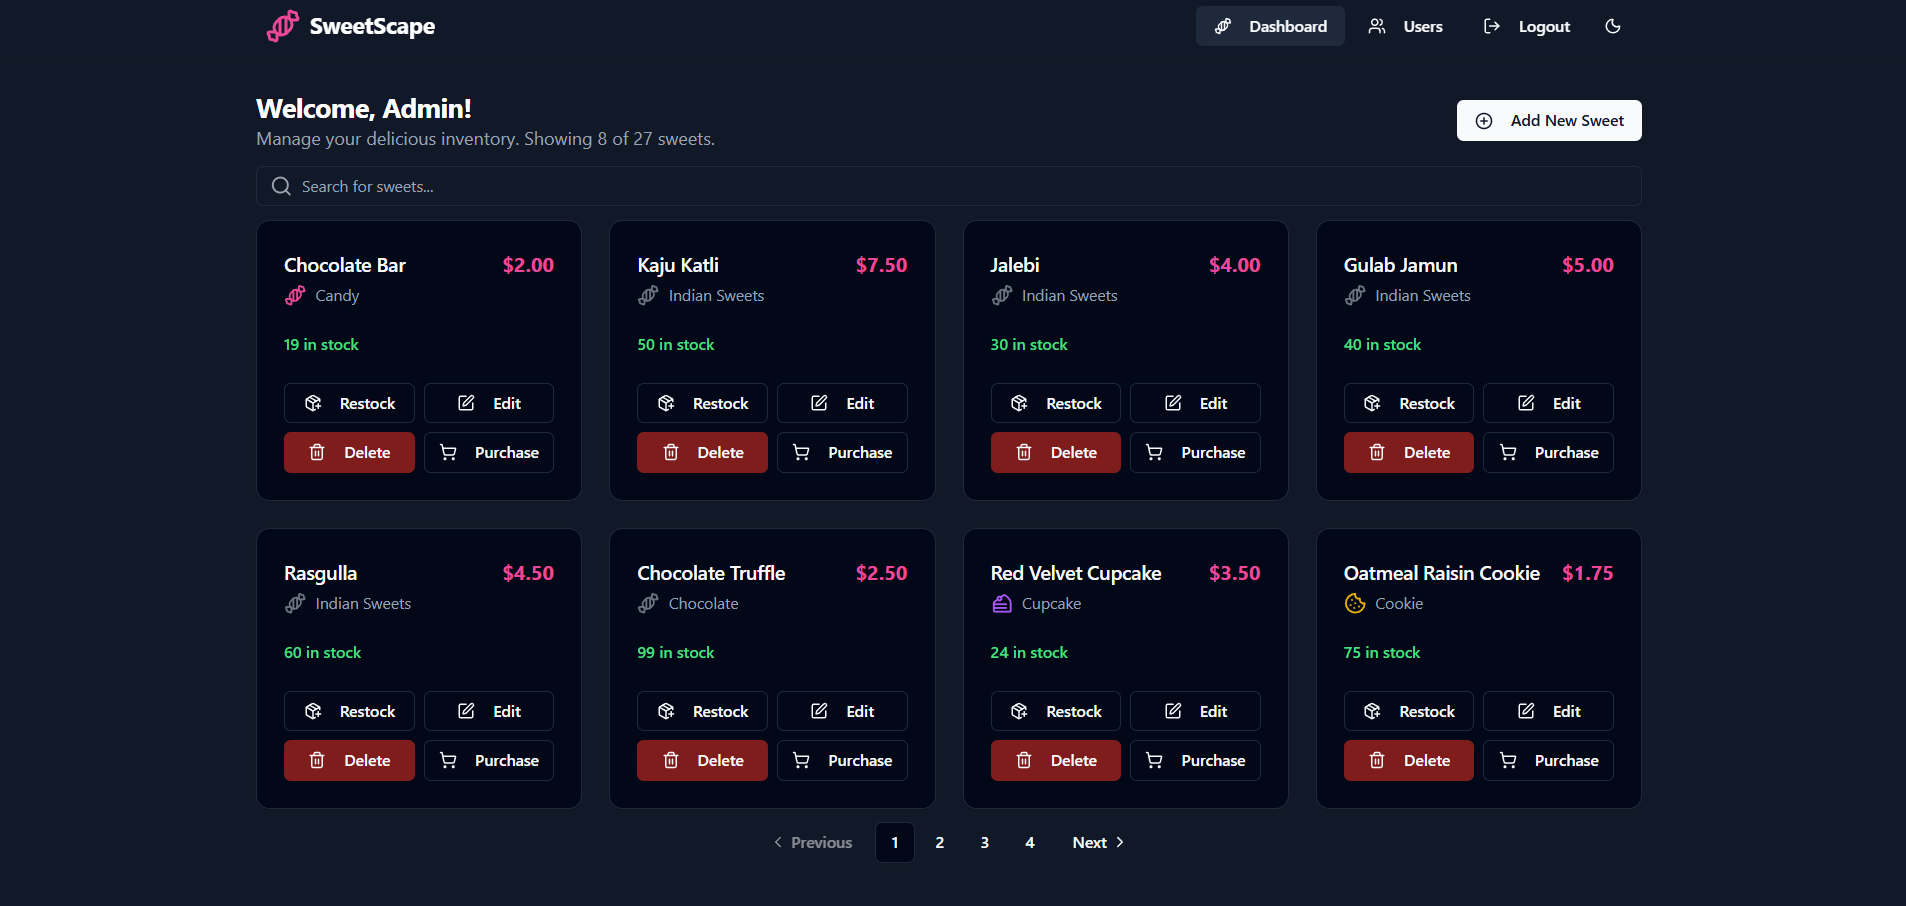
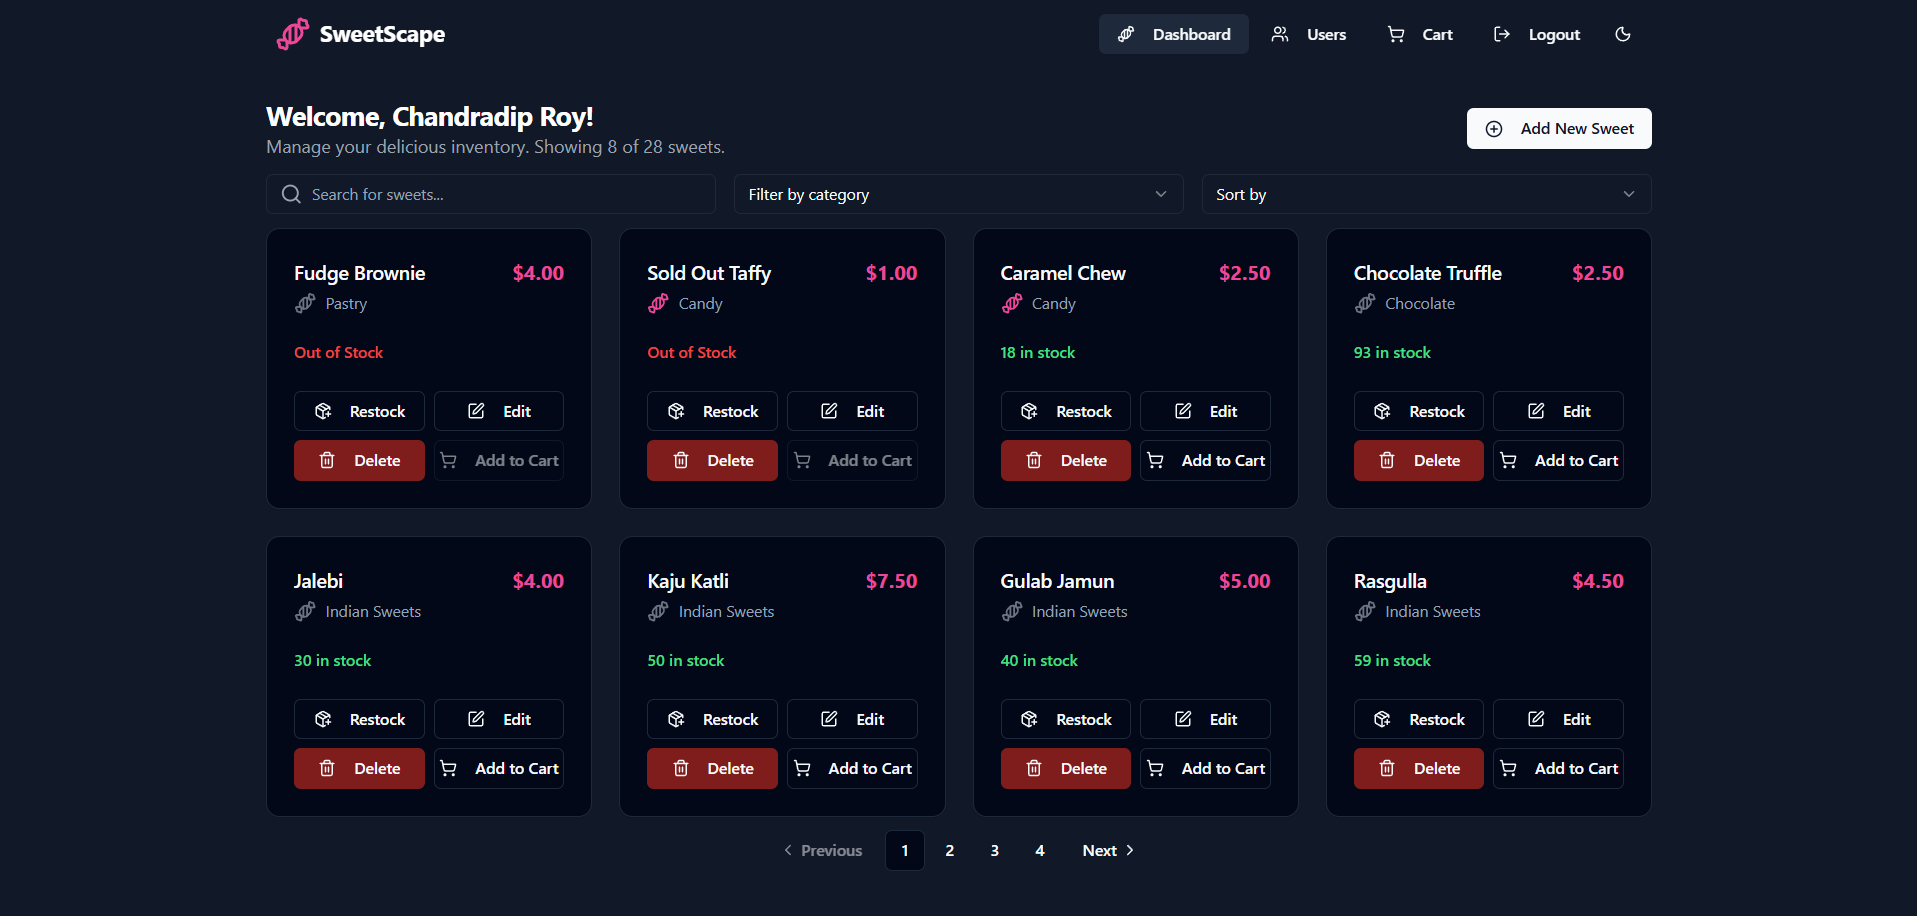
doc: updated readme added

diff --git a/README.md b/README.md
@@ -1,79 +1,77 @@
+Of course. Here is the updated, comprehensive `README.md` file for your project. It now includes all the new features we've implemented, updated screenshots, and a more detailed "My AI Usage" section reflecting our collaboration.
 
 # **Sweet Shop Management System - "SweetScape"**
 
 SweetScape is a full-stack web application designed as a comprehensive management system for a sweet shop. It features a secure, role-based system catering to both customers and administrators, built with a modern technology stack and following Test-Driven Development (TDD) principles.
 
-
 ### **Table of Contents**
 
-1. [Screenshots](#screenshots)  
-2. [Features](#features)  
-3. [Tech Stack](#tech-stack)  
-4. [Setup and Run Instructions](#setup-and-run-instructions)  
-5. [Running Tests](#running-tests)  
-6. [My AI Usage](#my-ai-usage)
+1.  [Screenshots](https://www.google.com/search?q=%23screenshots)
+2.  [Features](https://www.google.com/search?q=%23features)
+3.  [Tech Stack](https://www.google.com/search?q=%23tech-stack)
+4.  [Setup and Run Instructions](https://www.google.com/search?q=%23setup-and-run-instructions)
+5.  [Running Tests](https://www.google.com/search?q=%23running-tests)
+6.  [My AI Usage](https://www.google.com/search?q=%23my-ai-usage)
 
----
+-----
 
 ## **Screenshots**
-#### **Login Page**
-![Login Page Screenshot](./images/login.png)
-#### **Register Page**
-![Login Page Screenshot](./images/register.png)
 
+#### **Login & Register Pages**
+![Login Page](./images/login.png)
+![Register Page](./images/register.png)
 #### **Customer Dashboard (Paginated)**
 ![Customer Dashboard](./images/cust_dashboard.png)
-
+#### **Item Cart**
+![Item Cart](./images/shopping_cart.png)
 #### **Admin Dashboard (With Admin Controls)**
-- **Dashboard**
-![Admin Dashboard](./images/admin_dashboard.png)
-
-- **Add New Sweet**
-![Add New Sweet](./images/admin_add_sweet.png)
-
+![Admin Dashbaord](./images/admin_dashboard.png)
 #### **User Management (Admin View)**
-![Add New Sweet](./images/admin_user_control.png)
+![User Management](./images/admin_user_control.png)
 
----
+-----
 
 ### **Features**
 
-- **User Authentication:** Secure user registration and login system using JWT (JSON Web Tokens).  
-- **Role-Based Access Control:** Distinct UI and API access for two user roles:  
-  - **Customer:** Can view and purchase sweets from the inventory.  
-  - **Admin:** Has full CRUD (Create, Read, Update, Delete) access over the sweets inventory and can manage user roles.  
-- **Sweet Management (Admin):** Admins can add, update, and delete sweets, including setting their name, price, quantity, and category.  
-- **Dynamic Category Form:** The "Add/Edit Sweet" form features a dropdown with predefined categories and an option to add a custom category.  
-- **Inventory Control:**  
-  - Customers can purchase available sweets, which decrements the stock quantity.  
-  - Admins can restock any sweet, increasing its quantity.  
-- **Pagination & Search:** The main dashboard is fully paginated to handle a large number of sweets efficiently. Users can also perform a real-time search for sweets by name.  
-- **User Management (Admin):** A dedicated, admin-only page to view all registered users and promote/demote their roles. Includes safety checks to prevent the deletion of the last admin.  
-- **Session Re-validation:** The application automatically verifies user sessions on page load, ensuring that role changes made by an admin are reflected immediately for the user.  
-- **Responsive & Themed UI:** A modern, fully responsive interface built with Tailwind CSS and shadcn/ui, featuring a dark/light mode toggle.  
-- **Toast Notifications:** Provides clear, non-intrusive feedback for all user actions (login, purchase, errors, etc.).
+  - **User Authentication:** Secure user registration and login system using JWT (JSON Web Tokens).
+  - **Role-Based Access Control:** Distinct UI and API access for two user roles:
+      - **Customer:** Can view sweets, add items to a persistent shopping cart, and check out.
+      - **Admin:** Has full CRUD (Create, Read, Update, Delete) access over the sweets inventory and can manage user roles.
+  - **Shopping Cart:** A full-featured shopping cart experience where users can add, update quantities, and remove items. The checkout process is transactional, ensuring inventory levels are updated reliably.
+  - **Advanced Filtering & Sorting:** The main dashboard allows users to perform real-time searches, filter sweets by category, and sort by price or name.
+  - **Pagination:** The sweets dashboard is fully paginated to efficiently handle a large inventory.
+  - **Security Hardening:**
+      - **Rate Limiting:** The login and registration endpoints are protected against brute-force attacks.
+      - **Input Sanitization:** All user-provided data is sanitized on the backend to prevent XSS and other injection attacks.
+  - **User Management (Admin):** A dedicated, admin-only page to view all registered users and promote/demote their roles. Includes safety checks to prevent the deletion of the last admin.
+  - **Responsive & Themed UI:** A modern, fully responsive interface built with Tailwind CSS and shadcn/ui, featuring a dark/light mode toggle.
+  - **Toast Notifications:** Provides clear, non-intrusive feedback for all user actions (login, purchase, errors, etc.).
 
----
+-----
 
 ### **Tech Stack**
 
-- **Backend:**  
-  - **Framework:** Node.js with Express.js  
-  - **Language:** TypeScript  
-  - **Database:** MongoDB with Mongoose ODM  
-  - **Authentication:** JSON Web Tokens (JWT)  
+  - **Backend:**
 
-- **Frontend:**  
-  - **Framework:** React (with Vite)  
-  - **State Management:** Zustand  
-  - **Styling:** Tailwind CSS with shadcn/ui components  
-  - **UI/Icons:** Lucide React  
+      - **Framework:** Node.js with Express.js
+      - **Language:** TypeScript
+      - **Database:** MongoDB with Mongoose ODM
+      - **Authentication:** JSON Web Tokens (JWT)
+      - **Security:** `express-validator` for sanitization, `express-rate-limit` for protection against brute-force attacks.
 
-- **Testing:**  
-  - **Framework:** Jest with Supertest  
-  - **Language:** TypeScript  
+  - **Frontend:**
 
----
+      - **Framework:** React (with Vite)
+      - **State Management:** Zustand
+      - **Styling:** Tailwind CSS with shadcn/ui components
+      - **UI/Icons:** Lucide React
+
+  - **Testing:**
+
+      - **Framework:** Jest with Supertest
+      - **Language:** TypeScript
+
+-----
 
 ### **Setup and Run Instructions**
 
@@ -81,11 +79,11 @@ Follow these steps to get the project running on your local machine.
 
 #### **Prerequisites:**
 
-- Node.js (v18 or later recommended)  
-- npm (or your preferred package manager)  
-- A MongoDB database connection string (you can get a free one from [MongoDB Atlas](https://www.mongodb.com/cloud/atlas))
+  - Node.js (v18 or later recommended)
+  - npm (or your preferred package manager)
+  - A MongoDB database connection string (you can get a free one from [MongoDB Atlas](https://www.mongodb.com/cloud/atlas))
 
----
+-----
 
 #### **1. Backend Setup**
 
@@ -99,7 +97,7 @@ npm install
 
 # Create a .env file in the `backend` directory
 touch .env
-````
+```
 
 Your `backend/.env` file should look like this:
 
@@ -114,9 +112,9 @@ JWT_SECRET=yoursecretkey123
 npm run dev
 ```
 
-The backend server will start on [http://localhost:5000](http://localhost:5000).
+The backend server will start on `http://localhost:5000`.
 
----
+-----
 
 #### **2. Frontend Setup**
 
@@ -133,63 +131,58 @@ npm install
 npm run dev
 ```
 
-The frontend application will be available at [http://localhost:5173](http://localhost:5173) (or another port if 5173 is in use).
+The frontend application will be available at `http://localhost:5173` (or another port if 5173 is in use).
 
----
+-----
 
 ### **Running Tests**
 
-The backend includes a comprehensive test suite to ensure API reliability and security.
+The backend includes a comprehensive test suite to ensure API reliability and security. 
 
 To run the tests:
 
-1. Navigate to the backend directory.
-2. Ensure the backend server is **not** running in the same terminal.
-3. Run the following command:
+1.  Navigate to the `backend` directory.
+2.  Ensure the backend server is **not** running in the same terminal.
+3.  Run the following command:
+
+<!-- end list -->
 
 ```bash
 npm test
 ```
 
-You should see an output indicating that all test suites have passed.
+You should see an output indicating that all test suites have passed. 
 
 **Sample Test Report:**
 
 ```
-PASS  tests/auth.test.ts  
-PASS  tests/users.test.ts  
-PASS  tests/sweets.test.ts  
+PASS  tests/auth.test.ts
+PASS  tests/users.test.ts
+PASS  tests/sweets.test.ts
+PASS  tests/cart.test.ts
 
-Test Suites: 3 passed, 3 total  
-Tests:       27 passed, 27 total  
-Snapshots:   0 total  
-Time:        15.123 s  
+Test Suites: 4 passed, 4 total
+Tests:       35 passed, 35 total
+Snapshots:   0 total
+Time:        18.245 s
 Ran all test suites.
 ```
 
----
+-----
 
 ### **My AI Usage**
 
-In line with the assignment's transparency policy, this section details the use of AI as a development partner throughout this project.
+In line with the assignment's transparency policy, this section details the use of AI as a development partner throughout this project. 
 
-* **AI Tool Used:** **Gemini** (by Google)
+  * **AI Tool Used:** **Gemini** (by Google) 
 
-* **How I Used It:**
+  * **How I Used It:**
 
-  * **Code Review & Refactoring:** I provided my existing codebase to Gemini, which acted as a senior full-stack developer, to review my code. It identified bugs, suggested improvements, and helped refactor code for better performance and readability.
-  * **Debugging:** Gemini was instrumental in debugging several complex issues, including:
+      * **Strategic Planning:** I provided the project's codebase and a high-level enhancement plan to Gemini. It helped refine this plan into a concrete, phased-out strategy, starting with UX improvements and moving to security hardening and major feature implementation.
+      * **TDD Partnership:** For each new backend feature (filtering, validation, cart API), Gemini first generated the Jest/Supertest test files. This "Red-Green-Refactor" approach ensured that every piece of logic was built to meet specific, testable requirements from the start. 
+      * **Full-Stack Implementation:** Gemini generated the complete, final code for all new and modified files across the stack, including backend controllers, routes, models, frontend Zustand stores, and React components. This included architecting the database transaction logic for the checkout process to ensure atomicity.
+      * **Live Debugging & Code Review:** Gemini acted as a live code reviewer. When I encountered runtime errors or tricky bugs (like the `Select.Item` value error or the state synchronization issue after checkout), I provided the error messages, and it identified the root cause and generated the precise fix, explaining the "why" behind the solution.
+      * **Documentation:** This README.md file was structured and written in collaboration with Gemini to ensure it is comprehensive, professional, and meets all the assignment's requirements.
 
-    * A race condition in the test setup that caused authentication tests to fail intermittently.
-    * A critical bug where users were logged out on every page refresh due to a state initialization loop.
-    * Prop-drilling and state management inconsistencies between components.
-  * **Feature Implementation:** I collaborated with Gemini to architect and implement new features. This included:
-
-    * Designing the API and frontend logic for pagination.
-    * Scaffolding the backend endpoints and frontend UI for the admin-only User Management page.
-    * Implementing the category dropdown with a custom "Other" option in the sweet form.
-  * **Test Generation:** Gemini helped write and update the Jest/Supertest suites to cover the new backend features, including tests for pagination, validation, and role-based security.
-  * **Documentation:** This README.md file was structured and written in collaboration with Gemini to ensure it meets all the assignment's requirements.
-
-* **My Reflection:**
-  Using Gemini felt like having an experienced pair programmer available 24/7. It significantly accelerated my workflow by handling boilerplate code, providing instant feedback on my logic, and helping me quickly pinpoint the root cause of bugs that would have otherwise taken much longer to solve. It allowed me to focus more on the application's architecture and user experience rather than getting stuck on minor implementation details. This process has reinforced my belief that AI is an essential tool for modern, efficient, and high-quality software development.
+  * **My Reflection:**
+    Collaborating with Gemini was like having a senior developer as a pair programmer 24/7. It dramatically accelerated the development lifecycle. Instead of getting bogged down in boilerplate or minor bugs, I could focus on the high-level architecture and feature requirements. The AI's ability to instantly generate test suites and then write the code to satisfy them was a powerful demonstration of a modern, TDD-centric workflow. This process solidified my belief that AI is not just a tool for generating code but a strategic partner that enhances code quality, security, and development speed.
